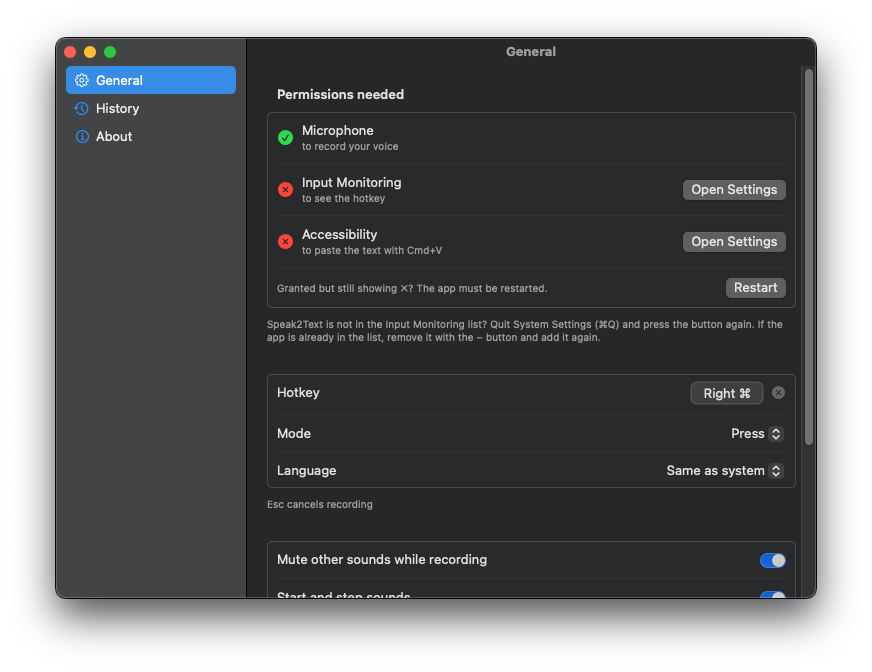
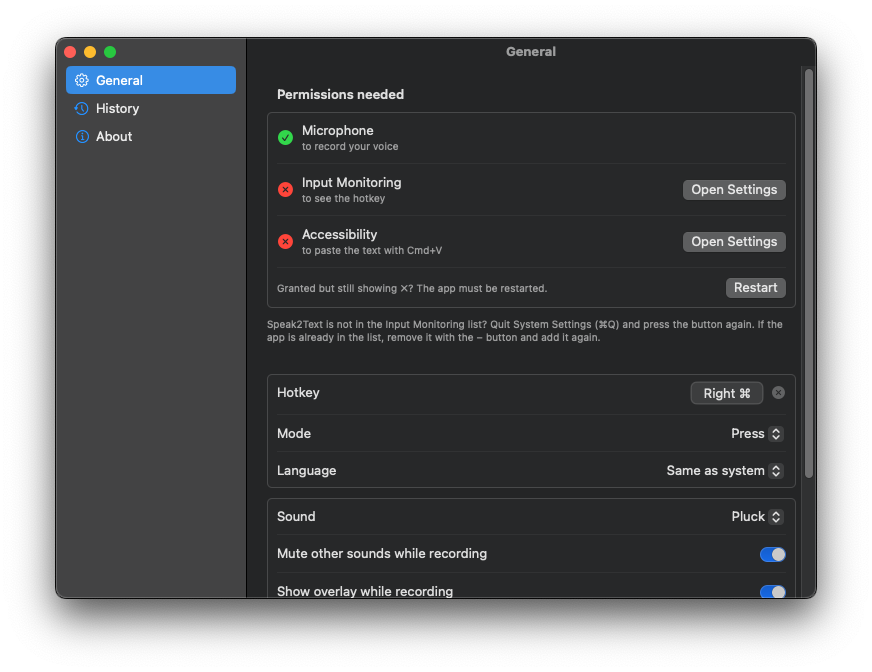
Settings: single «Звук» picker with «Без звука», Pluck by default, variant 01 renamed «Две ноты», old soundsEnabled migrated

diff --git a/Sources/Speak2Text/Settings.swift b/Sources/Speak2Text/Settings.swift
@@ -16,8 +16,7 @@ final class Settings: ObservableObject {
     @Published var language: String { didSet { d.set(language, forKey: "recognitionLanguage") } }
     @Published var muteEnabled: Bool { didSet { d.set(muteEnabled, forKey: "muteEnabled") } }
     @Published var overlayEnabled: Bool { didSet { d.set(overlayEnabled, forKey: "overlayEnabled") } }
-    @Published var soundsEnabled: Bool { didSet { d.set(soundsEnabled, forKey: "soundsEnabled") } }
-    /// Id of the start/stop sound variant (see `Sounds.variants`).
+    /// Id of the start/stop sound variant (see `Sounds.variants`) or `Sounds.none` (no sounds, no microphone gate).
     @Published var soundVariant: String { didSet { d.set(soundVariant, forKey: "soundVariant") } }
     @Published var launchAtLogin: Bool { didSet { d.set(launchAtLogin, forKey: "launchAtLogin") } }
     @Published var accelerator: Accelerator { didSet { d.set(accelerator.rawValue, forKey: "accelerator") } }
@@ -41,14 +40,21 @@ final class Settings: ObservableObject {
         for k in ["language", "replacements", "fillers", "muteLevel", "model", "promptEnabled", "promptTerms"] { d.removeObject(forKey: k) }   // keys of older versions
         muteEnabled = bool("muteEnabled", true)
         overlayEnabled = bool("overlayEnabled", true)
-        soundsEnabled = bool("soundsEnabled", true)
-        soundVariant = d.string(forKey: "soundVariant").flatMap { v in Sounds.variants.contains { $0.id == v } ? v : nil } ?? Sounds.variants[0].id
+        // Older versions had a separate on/off switch: an explicit "off" becomes "None".
+        let storedVariant = d.string(forKey: "soundVariant").flatMap { v in Sounds.variants.contains { $0.id == v } ? v : nil }
+        let sound = d.object(forKey: "soundsEnabled") as? Bool == false ? Sounds.none
+            : d.string(forKey: "soundVariant") == Sounds.none ? Sounds.none : storedVariant ?? Sounds.defaultVariant
+        soundVariant = sound
+        d.set(sound, forKey: "soundVariant")
+        d.removeObject(forKey: "soundsEnabled")
         launchAtLogin = bool("launchAtLogin", true)
         accelerator = Accelerator(rawValue: d.string(forKey: "accelerator") ?? "") ?? .ane
         fillersEnabled = bool("fillersEnabled", true)   // on unless the user switched it off explicitly
         historyEnabled = bool("historyEnabled", true)
         historyDays = d.object(forKey: "historyDays") as? Int ?? 30
     }
+
+    var soundsEnabled: Bool { soundVariant != Sounds.none }
 
     /// Language code passed to the engine: "auto" or a Whisper code. "system" is resolved here, every time.
     var recognitionLanguage: String { WhisperLanguages.resolve(language) }

diff --git a/Sources/Speak2Text/SettingsView.swift b/Sources/Speak2Text/SettingsView.swift
@@ -68,19 +68,13 @@ struct GeneralTab: View {
                 }
             }
             Section {
-                Toggle(L("Mute other sounds while recording"), isOn: $s.muteEnabled)
-                HStack {
-                    Text(L("Start and stop sounds"))
-                    Spacer()
-                    if s.soundsEnabled {
-                        Picker(L("Sound"), selection: $s.soundVariant) {
-                            ForEach(Sounds.variants, id: \.id) { Text(L($0.en)).tag($0.id) }
-                        }
-                        .labelsHidden().fixedSize()
-                        .onChange(of: s.soundVariant) { _, v in Sounds.preview(v) }
-                    }
-                    Toggle(L("Start and stop sounds"), isOn: $s.soundsEnabled).labelsHidden()
+                Picker(L("Sound"), selection: $s.soundVariant) {
+                    Text(L("None")).tag(Sounds.none)
+                    Divider()
+                    ForEach(Sounds.variants, id: \.id) { Text(L($0.en)).tag($0.id) }
                 }
+                .onChange(of: s.soundVariant) { _, v in Sounds.preview(v) }
+                Toggle(L("Mute other sounds while recording"), isOn: $s.muteEnabled)
                 Toggle(L("Show overlay while recording"), isOn: $s.overlayEnabled)
                 Toggle(L("Remove filler words"), isOn: $s.fillersEnabled)
                 Toggle(L("Launch at login"), isOn: $s.launchAtLogin)

diff --git a/Sources/Speak2Text/Sounds.swift b/Sources/Speak2Text/Sounds.swift
@@ -4,9 +4,13 @@ import AVFoundation
 enum Sounds {
     /// id = file prefix; names are localized in L10n.
     static let variants: [(id: String, en: String)] = [
-        ("01-classic", "Classic"), ("02-pluck", "Pluck"), ("03-marimba", "Marimba"), ("04-glass", "Glass"), ("05-wood", "Wood"),
+        ("01-classic", "Two notes"), ("02-pluck", "Pluck"), ("03-marimba", "Marimba"), ("04-glass", "Glass"), ("05-wood", "Wood"),
         ("06-chime", "Chime"), ("07-pop", "Pop"), ("08-breath", "Breath"), ("09-bell", "Bell"), ("10-tick", "Tick"),
     ]
+
+    /// Selection value for "no sounds" (also disables the microphone gate).
+    static let none = "none"
+    static let defaultVariant = "02-pluck"
 
     private static var cache: [String: AVAudioPlayer] = [:]
     private static func player(_ name: String) -> AVAudioPlayer? {
@@ -28,6 +32,7 @@ enum Sounds {
 
     /// Preview in the settings: start, then stop.
     static func preview(_ v: String) {
+        guard v != none else { return }
         playStart(v)
         let gap = startDuration(v) + 0.45
         DispatchQueue.main.asyncAfter(deadline: .now() + gap) { playStop(v) }

diff --git a/Sources/Speak2Text/L10n.swift b/Sources/Speak2Text/L10n.swift
@@ -37,9 +37,9 @@ private let russian: [String: String] = [
     "Language": "Язык",
     "Auto-detect": "Автоопределение",
     "Mute other sounds while recording": "Заглушать другие звуки при записи",
-    "Start and stop sounds": "Звуки старта и стопа",
     "Sound": "Звук",
-    "Classic": "Классический", "Pluck": "Щипок", "Marimba": "Маримба", "Glass": "Стекло", "Wood": "Дерево",
+    "None": "Без звука",
+    "Two notes": "Две ноты", "Pluck": "Щипок", "Marimba": "Маримба", "Glass": "Стекло", "Wood": "Дерево",
     "Chime": "Колокольчик", "Pop": "Пузырёк", "Breath": "Дыхание", "Bell": "Звон", "Tick": "Тик",
     "Show overlay while recording": "Показывать плашку при записи",
     "Launch at login": "Запускать при входе",

diff --git a/docs/SPEC.md b/docs/SPEC.md
@@ -65,8 +65,8 @@
     - Ключ EdDSA: `generate_keys` из Sparkle, приватный ключ в Keychain, публичный ключ в Info.plist (`SUPublicEDKey`).
     - Скрипт `scripts/release.sh <версия>`: сборка, zip (для Sparkle), подпись Sparkle, appcast.xml и `Speak2Text-<версия>.dmg` (для людей: окно 600×400, приложение слева, стрелка, Applications справа; собирается dmgbuild из venv в `.build/`, подписывается той же идентичностью) в `dist/`. Ничего не публикует.
     - Если Sparkle не собирается без Xcode, запасной вариант: проверка GitHub Releases API, а в меню «Доступна версия X» → открыть страницу релиза.
-11. **Звуки старта и стопа** (включено по умолчанию): мягкие синтезированные «блипы» `Resources/start.wav` (восходящий) и `stop.wav` (нисходящий), ~200 мс, пик 0,13: две мягкие синусоидальные ноты (494 и 659 Гц, чистая кварта) с едва слышной 2-й гармоникой, атака 20 мс, плавный спад. Генерирует `scripts/make_sounds.py`.
-    - **10 вариантов** на выбор: рядом с переключателем появляется список «Звук» (ru/en): 01 Классический/Classic (по умолчанию, описан выше), 02 Щипок/Pluck, 03 Маримба/Marimba, 04 Стекло/Glass, 05 Дерево/Wood, 06 Колокольчик/Chime (большая секста), 07 Пузырёк/Pop, 08 Дыхание/Breath, 09 Звон/Bell, 10 Тик/Tick. Все ≤250 мс, пик ≤0,15, плавные огибающие, без частот выше ~3 кГц. При выборе играется старт, пауза, стоп. Файлы приложения: `Resources/sounds/NN-имя-start.wav` / `-stop.wav`; для прослушивания по одному файлу на вариант: `docs/sounds/NN-имя.wav` (старт, 0,6 с тишины, стоп). Окно отбрасывания микрофона берётся по длительности стартового звука выбранного варианта.
+11. **Звуки старта и стопа** — один список «Звук» / «Sound» вверху группы переключателей (над «Заглушать другие звуки при записи»). Первый пункт «Без звука» / «None» (после него разделитель): ни звуков, ни отбрасывания микрофона. По умолчанию 02 Щипок. Миграция: если старый ключ `soundsEnabled` был явно false — выбрано «Без звука»; иначе, если вариант не выбирался, — Щипок; ключ `soundsEnabled` удаляется. Вариант 01 «Две ноты» / «Two notes»: мягкие синтезированные «блипы» (старт восходящий, стоп нисходящий), ~200 мс, пик 0,13: две мягкие синусоидальные ноты (494 и 659 Гц, B4→E5) с едва слышной 2-й гармоникой, атака 20 мс, плавный спад. Генерирует `scripts/make_sounds.py`.
+    - **10 вариантов** на выбор: список «Звук» (ru/en): 01 Две ноты/Two notes (описан выше), 02 Щипок/Pluck (по умолчанию), 03 Маримба/Marimba, 04 Стекло/Glass, 05 Дерево/Wood, 06 Колокольчик/Chime (большая секста), 07 Пузырёк/Pop, 08 Дыхание/Breath, 09 Звон/Bell, 10 Тик/Tick. Все ≤250 мс, пик ≤0,15, плавные огибающие, без частот выше ~3 кГц. При выборе варианта играется старт, пауза, стоп; при выборе «Без звука» ничего не играет. Файлы приложения: `Resources/sounds/NN-имя-start.wav` / `-stop.wav`; для прослушивания по одному файлу на вариант: `docs/sounds/NN-имя.wav` (старт, 0,6 с тишины, стоп). Окно отбрасывания микрофона берётся по длительности стартового звука выбранного варианта.
     - Стартовый звук играет сразу при нажатии; пока он звучит (~0,24 с), сэмплы с микрофона отбрасываются, поэтому звук не попадает ни в распознавание, ни в историю. Заглушение включается после него. Цена: первые ~0,24 с речи после нажатия теряются.
     - Стоп-звук играет после остановки записи и восстановления громкости.
 12. **История.**
